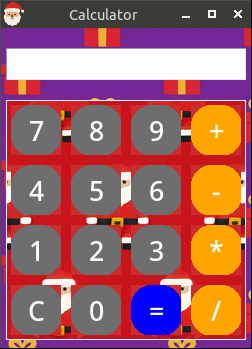
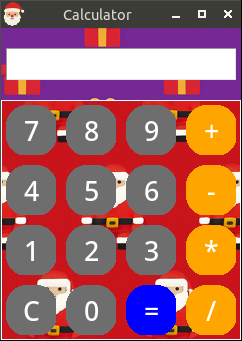
Version 0.2.0 - truly transparent corners of rounded buttons, optimized code, and other changes

diff --git a/docs/window.html b/docs/window.html
@@ -66,19 +66,21 @@ root.happynewyear()
 						<td><b>bg_blur</b></td>
 						<td>int, the larger the number, the greater the blur.</td>
 					</tr>
+					<tr>
+						<td><i>Other ClausFrame arguments</i></td>
+						<td></td>
+					</tr>
 				</tbody>
 			</table>
 
 			<h2>Methods</h2>
 			<ul>
 				<li><b>.happynewyear()</b></li>
-				<p>like mainloop() in Tkinter windows</p>
+				<p>Can be used instead of .mainloop()</p>
 				<li><b>.seticon()</b></li>
 				<p>A universal way to add an icon to a window. A .png file is required.</p>
 				<pre><code class="language-python">root.seticon("my-icon.png")</code></pre>
-				<li><b>.title()</b></li>
-				<li><b>.geometry()</b></li>
-				<li><b>.cget()</b></li>
+				<li><i>Other tkinter.Tk methods</i></li>
 			</ul>
 
 			<h2>Useful variables</h2>
@@ -87,6 +89,7 @@ root.happynewyear()
 				<p>Average background color. For example, <code>print(root.avg_color)</code></p>
 				<li><b>contrast_color</b></li>
 				<p>A contrasting color relative to the average background color. For example, <code>print(root.contrast_color)</code></p>
+				<li><i>Other ClausFrame variables</i></li>
 			</ul>
 		</article>
 

diff --git a/docs/toplevel.html b/docs/toplevel.html
@@ -66,6 +66,10 @@ open_toplevel_btn.pack(padx=10, pady=10)
 						<td><b>bg_blur</b></td>
 						<td>int, the larger the number, the greater the blur.</td>
 					</tr>
+					<tr>
+						<td><i>Other ClausFrame arguments</i></td>
+						<td></td>
+					</tr>
 				</tbody>
 			</table>
 
@@ -74,9 +78,7 @@ open_toplevel_btn.pack(padx=10, pady=10)
 				<li><b>.seticon()</b></li>
 				<p>A universal way to add an icon to a window. A .png file is required.</p>
 				<pre><code class="language-python">toplevel.seticon("my-icon.png")</code></pre>
-				<li><b>.title()</b></li>
-				<li><b>.geometry()</b></li>
-				<li><b>.cget()</b></li>
+				<li><i>Other tkinter.Toplevel methods</i></li>
 			</ul>
 
 			<h2>Useful variables</h2>
@@ -85,6 +87,7 @@ open_toplevel_btn.pack(padx=10, pady=10)
 				<p>Average background color. For example, <code>print(toplevel.avg_color)</code></p>
 				<li><b>contrast_color</b></li>
 				<p>A contrasting color relative to the average background color. For example, <code>print(toplevel.contrast_color)</code></p>
+				<li><i>Other ClausFrame variables</i></li>
 			</ul>
 		</article>
 

diff --git a/src/claustk/widgets/claus_window.py b/src/claustk/widgets/claus_window.py
@@ -3,9 +3,9 @@ import sys
 import tempfile
 import tkinter as tk
 
-from PIL import Image, ImageTk
+from PIL import Image
 
-from .claus_background_canvas import ClausBackgroundCanvas
+from .claus_frame import ClausFrame
 
 
 def _resource(relative_path):
@@ -13,20 +13,13 @@ def _resource(relative_path):
     return os.path.join(base_path, relative_path)
 
 
-class ClausWindow(ClausBackgroundCanvas):
-    def __init__(self, background: str = "christmas_trees", bg_fragmentation: int = 3, **kwargs):
+class ClausWindow(ClausFrame):
+    def __init__(self, **kwargs):
         self._master = tk.Tk()
         self._master.title("ClausWindow")
-        self._master.geometry("600x400")
 
         super().__init__(self._master, **kwargs)
         self.pack(fill="both", expand=True)
-
-        _background = Image.open(_resource(f"assets/{background}.png"))
-        self._background = _background.resize(
-            (int(_background.width / bg_fragmentation), int(_background.height / bg_fragmentation))
-        )
-        self._background_tk = ImageTk.PhotoImage(self._background)
 
         self.seticon(_resource("assets/icon.png"))
 
@@ -40,22 +33,12 @@ class ClausWindow(ClausBackgroundCanvas):
             img.save(ico_path, format="ICO", sizes=[(16, 16), (32, 32), (48, 48), (256, 256)])
 
             self._master.iconbitmap(ico_path)
+            os.remove(ico_path)
         else:
             self._master.iconphoto(True, tk.PhotoImage(file=file_path))
-
-    def title(self, value: str):
-        self._master.title(value)
-
-    def geometry(self, value: str):
-        self._master.geometry(value)
 
     def happynewyear(self):
         self._master.mainloop()
 
-    def cget(self, key):
-        if key == "width":
-            return self._master.width
-        elif key == "height":
-            return self._master.height
-        else:
-            raise KeyError(f"Unknown option: '{key}'")
+    def __getattr__(self, name):
+        return getattr(self._master, name)

diff --git a/src/claustk/widgets/claus_toplevel.py b/src/claustk/widgets/claus_toplevel.py
@@ -3,9 +3,9 @@ import sys
 import tempfile
 import tkinter as tk
 
-from PIL import Image, ImageTk
+from PIL import Image
 
-from .claus_background_canvas import ClausBackgroundCanvas
+from .claus_frame import ClausFrame
 
 
 def _resource(relative_path):
@@ -13,20 +13,13 @@ def _resource(relative_path):
     return os.path.join(base_path, relative_path)
 
 
-class ClausToplevel(ClausBackgroundCanvas):
-    def __init__(self, background: str = "christmas_trees", bg_fragmentation: int = 3, **kwargs):
+class ClausToplevel(ClausFrame):
+    def __init__(self, **kwargs):
         self._master = tk.Toplevel()
         self._master.title("ClausToplevel")
-        self._master.geometry("400x250")
 
         super().__init__(self._master, **kwargs)
         self.pack(fill="both", expand=True)
-
-        _background = Image.open(_resource(f"assets/{background}.png"))
-        self._background = _background.resize(
-            (int(_background.width / bg_fragmentation), int(_background.height / bg_fragmentation))
-        )
-        self._background_tk = ImageTk.PhotoImage(self._background)
 
         self.seticon(_resource("assets/icon.png"))
 
@@ -40,19 +33,9 @@ class ClausToplevel(ClausBackgroundCanvas):
             img.save(ico_path, format="ICO", sizes=[(16, 16), (32, 32), (48, 48), (256, 256)])
 
             self._master.iconbitmap(ico_path)
+            os.remove(ico_path)
         else:
             self._master.iconphoto(True, tk.PhotoImage(file=file_path))
 
-    def title(self, value: str):
-        self._master.title(value)
-
-    def geometry(self, value: str):
-        self._master.geometry(value)
-
-    def cget(self, key):
-        if key == "width":
-            return self._master.width
-        elif key == "height":
-            return self._master.height
-        else:
-            raise KeyError(f"Unknown option: '{key}'")
+    def __getattr__(self, name):
+        return getattr(self._master, name)

diff --git a/src/claustk/widgets/claus_rounded_button.py b/src/claustk/widgets/claus_rounded_button.py
@@ -1,5 +1,7 @@
 import tkinter as tk
 
+from PIL import Image, ImageTk
+
 
 class ClausRoundedButton(tk.Canvas):
     def __init__(
@@ -8,7 +10,7 @@ class ClausRoundedButton(tk.Canvas):
         width=150,
         height=30,
         text="ClausRoundedButton",
-        font=None,
+        font=("Arial", 11),
         radius=13,
         bg_color="green",
         fg_color="white",
@@ -21,7 +23,6 @@ class ClausRoundedButton(tk.Canvas):
             master,
             width=width,
             height=height,
-            bg=master.avg_color,
             highlightthickness=0,
             **kwargs,
         )
@@ -37,9 +38,28 @@ class ClausRoundedButton(tk.Canvas):
         self.cursor = cursor
 
         self.delete("all")
+
         self._create_button()
 
+        self.bind("<Configure>", self._create_bg)
         self.bind("<ButtonRelease-1>", self._on_release)
+
+    def _create_bg(self, event=None):
+        self.delete("btn_bg")
+
+        w, h = self.master.winfo_width(), self.master.winfo_height()
+        full_bg = Image.new("RGB", (w, h))
+        bw, bh = self.master._background.width, self.master._background.height
+        for x in range(0, w, bw):
+            for y in range(0, h, bh):
+                full_bg.paste(self.master._background, (x, y))
+
+        x, y, w, h = self.winfo_x(), self.winfo_y(), self.winfo_width(), self.winfo_height()
+        cropped = full_bg.crop((x, y, x + w, y + h))
+        self.bg_piece = ImageTk.PhotoImage(cropped)
+
+        self.create_image(0, 0, image=self.bg_piece, anchor="nw", tags="btn_bg")
+        self.tag_lower("btn_bg")
 
     def _create_button(self):
         r, w, h = self.radius, self.width, self.height

diff --git a/src/claustk/widgets/claus_frame.py b/src/claustk/widgets/claus_frame.py
@@ -10,7 +10,7 @@ def _resource(relative_path):
     return os.path.join(base_path, relative_path)
 
 
-class ClausBackgroundCanvas(tk.Canvas):
+class ClausFrame(tk.Canvas):
     def __init__(
         self, master, background: str = "christmas_trees", bg_fragmentation: int = 3, bg_blur: int = 0, **kwargs
     ):
@@ -32,8 +32,8 @@ class ClausBackgroundCanvas(tk.Canvas):
         )
         self._background_tk = ImageTk.PhotoImage(self._background)
 
-        self.avg_color = self.average_color(self._background)
-        self.contrast_color = self.contrast_color_from_avg(self.avg_color)
+        self.avg_color = self._average_color(self._background)
+        self.contrast_color = self._contrast_color_from_avg(self.avg_color)
 
         self.bind("<Configure>", self._tile_background)
 
@@ -46,7 +46,7 @@ class ClausBackgroundCanvas(tk.Canvas):
             for y in range(0, h, th):
                 self.create_image(x, y, image=self._background_tk, anchor="nw", tags="bg")
 
-    def average_color(self, img: Image.Image):
+    def _average_color(self, img: Image.Image):
         small_img = img.resize((50, 50))
         pixels = list(small_img.getdata())
         r = sum(p[0] for p in pixels) // len(pixels)
@@ -54,7 +54,7 @@ class ClausBackgroundCanvas(tk.Canvas):
         b = sum(p[2] for p in pixels) // len(pixels)
         return f"#{r:02x}{g:02x}{b:02x}"
 
-    def contrast_color_from_avg(self, hex_color: str):
+    def _contrast_color_from_avg(self, hex_color: str):
         r = int(hex_color[1:3], 16)
         g = int(hex_color[3:5], 16)
         b = int(hex_color[5:7], 16)

diff --git a/src/claustk/__init__.py b/src/claustk/__init__.py
@@ -1,8 +1,8 @@
 import tkinter as tk
 
-from .widgets.claus_background_canvas import ClausBackgroundCanvas as ClausFrame  # noqa: F401
 from .widgets.claus_button import ClausButton as ClausButton
 from .widgets.claus_checkbox import ClausCheckbox as ClausCheckbox
+from .widgets.claus_frame import ClausFrame as ClausFrame
 from .widgets.claus_image_widget import ClausImageWidget as ClausImageWidget
 from .widgets.claus_label import ClausLabel as ClausLabel
 from .widgets.claus_line_edit import ClausLineEdit as ClausLineEdit

diff --git a/docs/examples/calculator.py b/docs/examples/calculator.py
@@ -19,7 +19,6 @@ def press(key):
 
 root = claustk.ClausWindow(background="gifts")
 root.title("Calculator")
-root.geometry("250x320")
 
 line_edit = claustk.ClausLineEdit(root, font=(None, 15), justify="right")
 line_edit.pack(fill="x", padx=5, pady=20)

diff --git a/docs/examples/simple_example.py b/docs/examples/simple_example.py
@@ -6,6 +6,7 @@ def click_btn():
 
 
 root = claustk.ClausWindow()
+root.geometry("300x200")
 
 button = claustk.ClausRoundedButton(root, text="Click me!", command=click_btn)
 button.pack(padx=10, pady=10)
